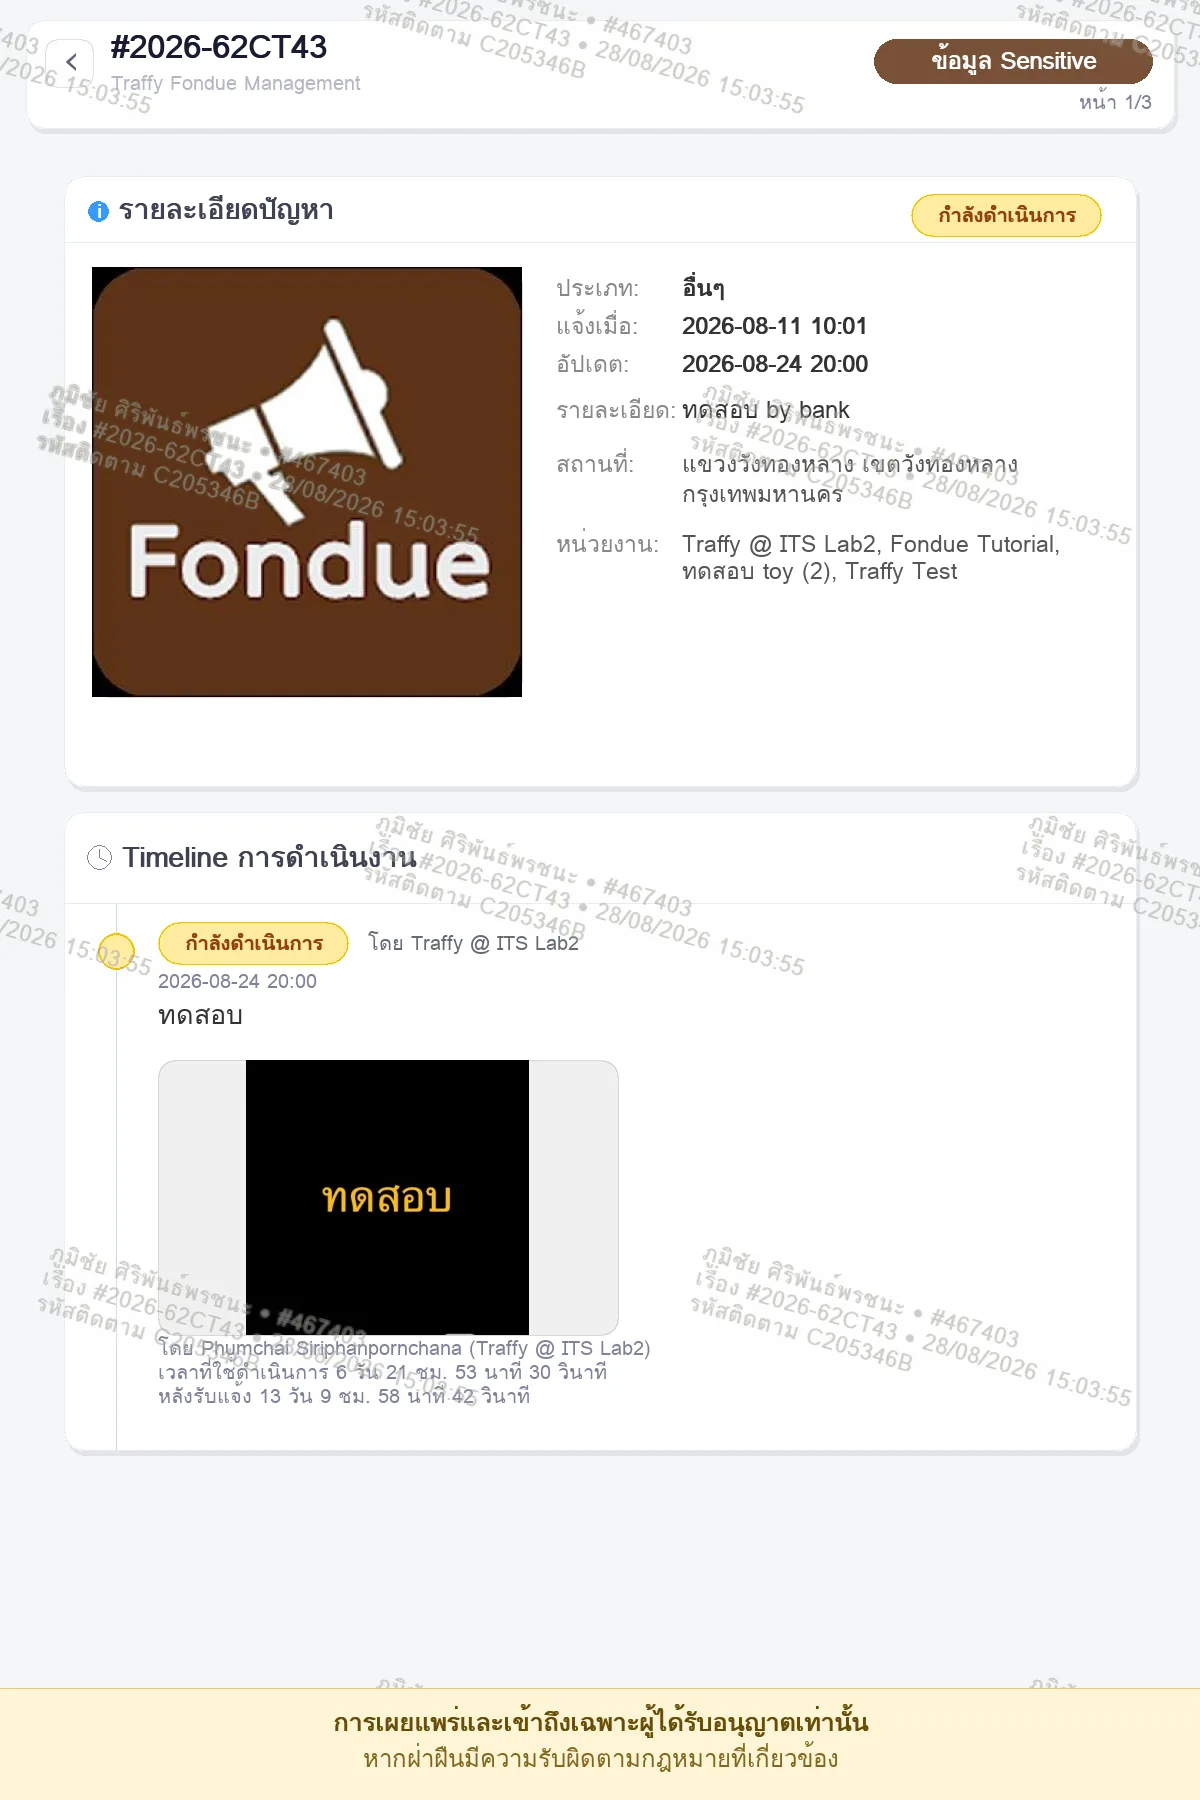
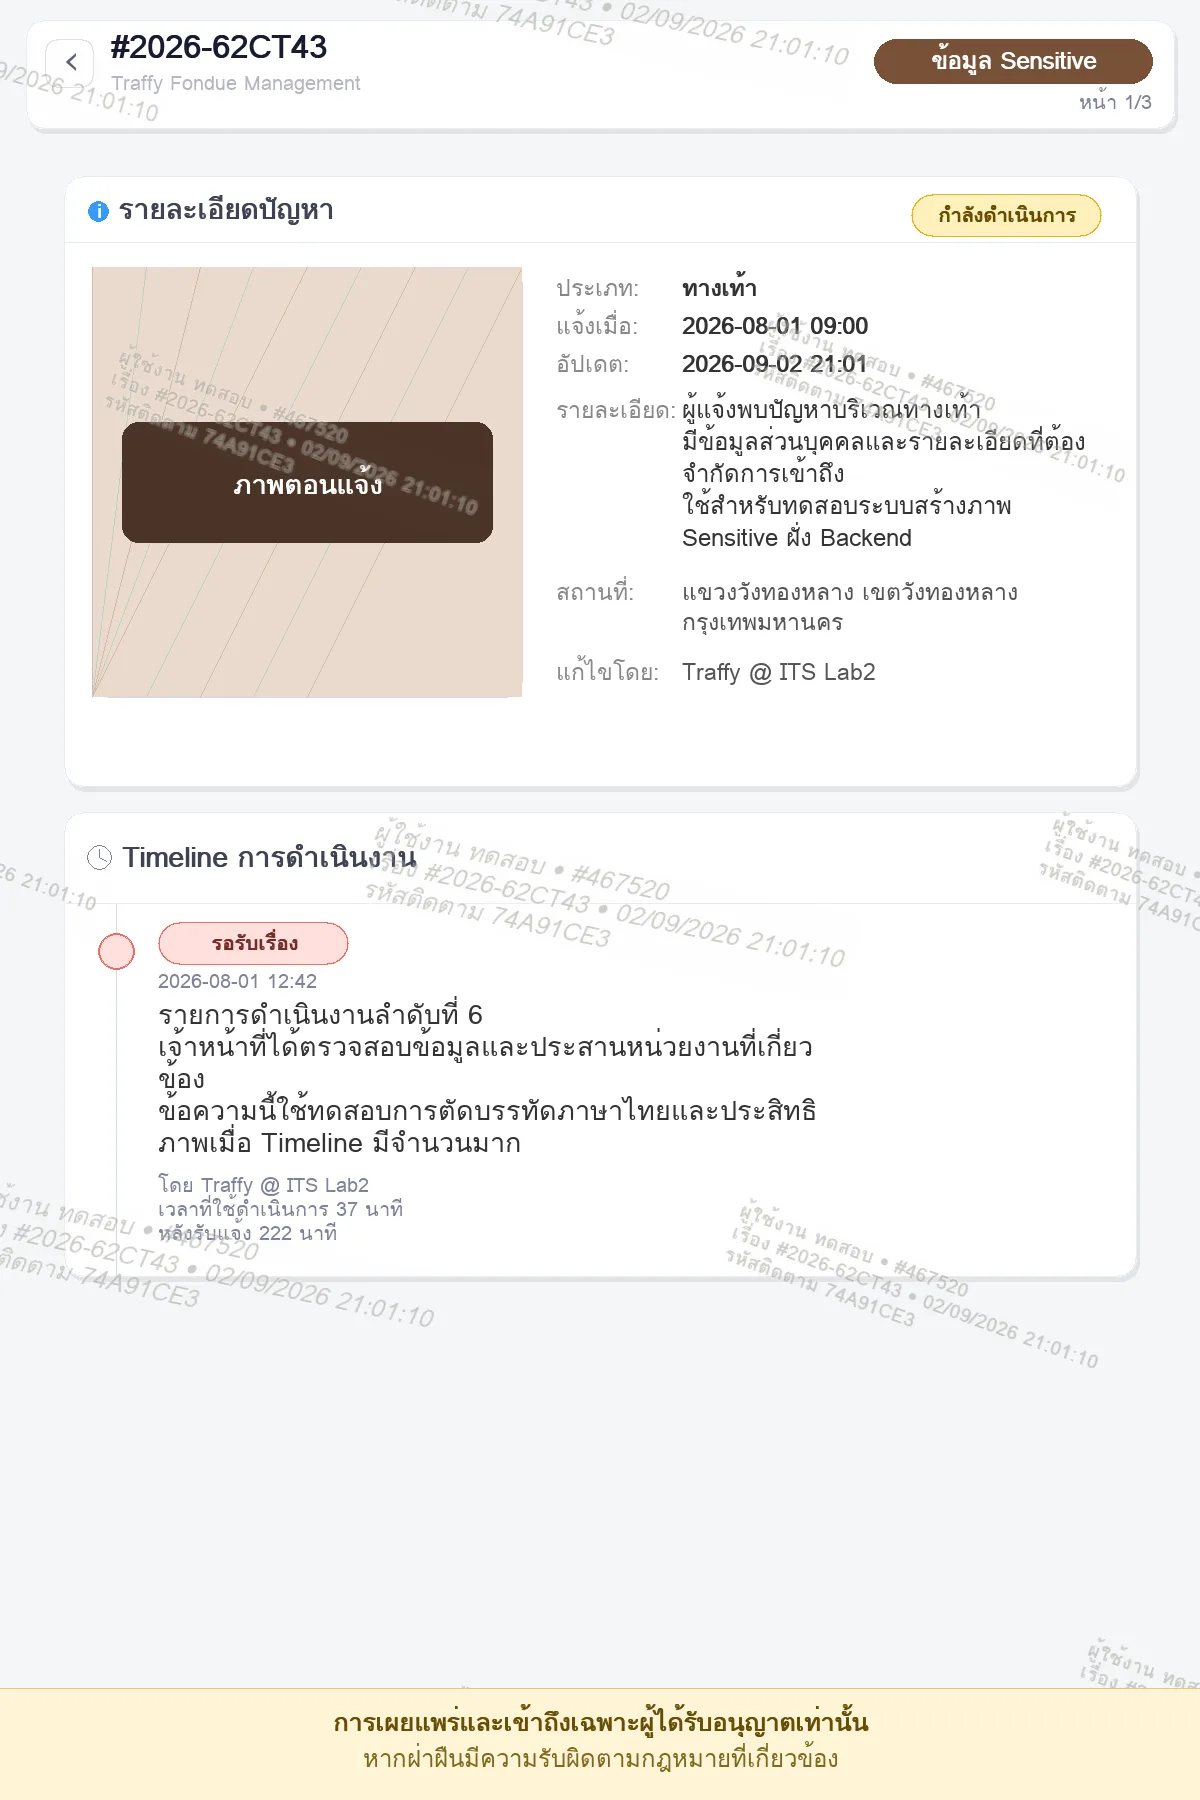
ปรับภาพที่ปรับปรุงการ random ลายน้ำแล้ว

diff --git a/README.md b/README.md
@@ -77,16 +77,17 @@ state ที่ทุกหน้าต้องมี
 `liff/liff.js` เขียน UI ของ LIFF แยกไว้เพราะหน้าตาต่างจากอีกสองตัว
 ส่วน `web/` กับ `app/` ใช้ `shared/sensitive-flow.js` ร่วมกัน
 
-## ภาพ render จริง
+## ภาพตัวอย่างจาก renderer
 
-`shared/real-render/` คือภาพจริงจากเรื่องทดสอบ **2026-62CT43** ที่เข้ารหัสด้วย KMS จริง
-ดึงจาก Cloud Run ตัว `-test` เก็บเป็นไฟล์ static — 3 หน้า (1200×1800 WebP) + ภาพแนบ 2 รูป
-ลายน้ำในภาพเป็นของจริงจาก renderer ไม่ใช่ของจำลอง
+`shared/real-render/` เป็นภาพที่สร้างด้วย renderer รุ่น `2026-09-02-v0.8.0`
+จากข้อมูล mock เก็บเป็นไฟล์ static — 3 หน้า (1200×1800 WebP) + ภาพแนบ 1 รูป
+ตัวเรื่องเป็นข้อมูลจำลอง แต่ลายน้ำใช้ implementation จริงที่สุ่มฟอนต์ ขนาด
+และตำแหน่งของแต่ละชิ้น เพื่อให้รีวิวลายน้ำพร้อม UI ได้โดยไม่มีข้อมูลจริงติด repo
 
 ทุกหน้าอ่าน `shared/real-render/manifest.json` แล้วใช้ภาพเหล่านี้อัตโนมัติ
 ถ้าลบโฟลเดอร์ทิ้ง จะตกกลับไปใช้ SVG จำลองใน `shared/` เงียบๆ
 
-อยากดึงใหม่หรือเปลี่ยนเป็นเรื่องอื่น ใช้สคริปต์ที่เก็บไว้นอก repo:
+ถ้าต้องการดึงภาพจากเรื่อง KMS จริง ใช้สคริปต์ที่เก็บไว้นอก repo:
 
 ```bash
 ../fetch-real-render.sh 2026-62CT43
@@ -106,5 +107,5 @@ state ที่ทุกหน้าต้องมี
   GitHub Team/Enterprise ตั้ง Pages เป็น private ให้เห็นเฉพาะคนใน org จะปลอดภัยกว่า
 - ทุกหน้าใส่ `noindex, nofollow` ไว้แล้ว แต่นั่นกัน search engine เท่านั้น ไม่ใช่การเข้าถึง
 - ไม่มี token, API key หรือ URL ของ service จริงอยู่ใน repo เลย (ตรวจแล้ว)
-- **ลายน้ำในภาพ render จริงมีชื่อและเลขผู้ใช้ของคนที่ปลดล็อกอยู่** ตรวจก่อนว่ารับได้
+- ภาพชุดปัจจุบันใช้ผู้ใช้ mock ไม่มีชื่อหรือเลขของผู้ใช้งานจริงติดอยู่
 - ข้อมูลเรื่องแจ้งอื่นๆ เป็นของแต่งขึ้นทั้งหมด (`2026-6U23NF`)
